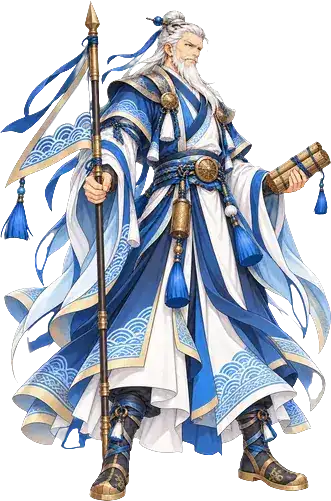
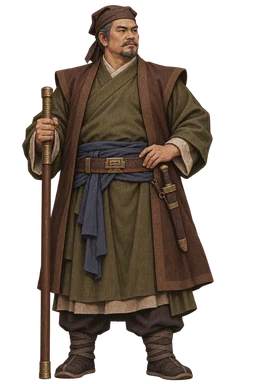
feat: dựng lại hình Trần Lãm theo bộ tranh mới
Bộ 6 tranh Shan gửi 03/11 (áo giao lĩnh nâu ôliu, áo khoác cộc nâu, đai chàm, gậy gỗ
hai đầu bịt đồng) thay bộ cờ lệnh cũ. Ảnh đứng tách lớp bằng code: bàn tay nắm cùng cây
gậy xoay quanh cổ tay (weapon staff), bàn tay đặt trên đai, đầu; chỗ gậy che tay áo và
vạt áo khoác được vá bằng khuếch tán màu. Thêm tranh đánh thường và phong thái (đọc cuộn
giấy); bỏ các lớp vải cũ ribbon, sash, sleeve.

Claude-Session: https://claude.ai/code/session_013ZWRLjVBHAqXYTQSkSZwJr

diff --git a/src/app/game/stage/rigs.ts b/src/app/game/stage/rigs.ts
@@ -709,43 +709,48 @@ const DINH_LIEN: WarriorRig = {
     anchor: { x: 560, y: 1262 }, scale: 0.95 },
 };
 
-/** Trần Lãm, quân sư hệ Thủy. Cờ lệnh đẩy nhẹ; tọa độ theo tranh 1024×1536. */
+/**
+ * Trần Lãm, quân sư hệ Thủy. Bộ tranh Shan gửi 03/11 (nền trong suốt sẵn) theo thiết kế mới RB-008: áo giao lĩnh nâu
+ * ôliu, áo khoác cộc nâu, đai chàm, gậy gỗ hai đầu bịt đồng, thay bộ cờ lệnh cũ. Ảnh đứng tách lớp bằng code: bàn tay
+ * nắm cùng cây gậy xoay quanh cổ tay (nhịp trượng, nghiêng nhẹ), bàn tay đặt trên đai, đầu; chỗ gậy che tay áo và vạt
+ * áo khoác được vá bằng khuếch tán màu xung quanh. Hệ tọa độ: ảnh đứng 1024×1536.
+ */
 const TRAN_LAM: WarriorRig = {
   skeleton: "warrior",
-  weapon: "spear",
+  weapon: "staff",
   dir: "tran-lam",
   texScale: 0.5,
-  foot: { x: 610, y: 1508 },
-  height: 1505,
+  foot: { x: 495, y: 1512 },
+  height: 1495,
   parts: {
-    body: { x: 27, y: 43, w: 980, h: 1472 },
-    armR: { x: 817, y: 435, w: 190, h: 222 },
-    sword: { x: 15, y: 12, w: 332, h: 1393 },
-    arm: { x: 256, y: 502, w: 115, h: 133 },
-    head: { x: 457, y: 43, w: 225, h: 305 },
+    body: { x: 88, y: 19, w: 768, h: 1503 },
+    armR: { x: 547, y: 568, w: 178, h: 110 },
+    sword: { x: 155, y: 345, w: 58, h: 1172 },
+    arm: { x: 134, y: 462, w: 104, h: 109 },
+    head: { x: 330, y: 19, w: 240, h: 259 },
   },
-  cloth: [
-    { name: "ribbon", box: { x: 321, y: 86, w: 187, h: 182 }, behind: true,
-      wind: { axis: "x", start: 0.2, amp: 4, freq: 1.6, k: 2.8, phase: 0.3, vertical: true, reverse: true } },
-    { name: "sash", box: { x: 505, y: 575, w: 88, h: 368 },
-      wind: { axis: "y", start: 0.2, amp: 2, freq: 1.3, k: 2.6, phase: 1.4 } },
-  ],
-  covers: [{ name: "sleeve", box: { x: 296, y: 344, w: 148, h: 197 } }],
+  cloth: [],
+  covers: [],
   joints: {
-    shoulder: { x: 365, y: 505 },
-    elbowR: { x: 825, y: 545 },
-    neck: { x: 554, y: 270 },
+    shoulder: { x: 160, y: 555 },
+    elbowR: { x: 705, y: 605 },
+    neck: { x: 470, y: 255 },
   },
-  blade: [{ x: 300, y: 550 }, { x: 287, y: 18 }],
+  blade: [{ x: 182, y: 1490 }, { x: 188, y: 360 }],
   fxColor: 0x7fcaff,
+  // Hạ gậy quét ngang, tay kia nắm trước ngực (đánh thường); giơ gậy chéo sau đầu, xòe bàn tay về trước (ra chiêu);
+  // thế tấn rộng, gậy ngang ngực, tay kia mở chặn (tuyệt chiêu). Cỡ so theo bề ngang khăn đầu.
   poses: {
-    cast: { name: "pose-cast", texScale: 1 / 3, origin: { x: 13, y: 3 },
-      anchor: { x: 650, y: 1510 }, scale: 1, burst: { x: 100, y: 50 } },
-    ultimate: { name: "pose-ultimate", texScale: 1 / 3, origin: { x: 7, y: 18 },
-      anchor: { x: 645, y: 1510 }, scale: 1, burst: { x: 960, y: 220 } },
+    attack: { name: "pose-attack", texScale: 0.3, origin: { x: 172, y: 11 },
+      anchor: { x: 570, y: 1003 }, scale: 1.2, burst: { x: 1245, y: 700 } },
+    cast: { name: "pose-cast", texScale: 0.3, origin: { x: 38, y: 18 },
+      anchor: { x: 510, y: 1500 }, scale: 1.03, burst: { x: 955, y: 455 } },
+    ultimate: { name: "pose-ultimate", texScale: 0.3, origin: { x: 135, y: 44 },
+      anchor: { x: 765, y: 965 }, scale: 1.2, burst: { x: 1395, y: 312 } },
   },
-  down: { name: "pose-down", texScale: 1 / 3, origin: { x: 36, y: 99 },
-    anchor: { x: 955, y: 910 }, scale: 1 },
+  // Ngồi bệt ngả sang bên, một tay chống đất, gậy rơi bên cạnh.
+  down: { name: "pose-down", texScale: 0.3, origin: { x: 36, y: 36 },
+    anchor: { x: 750, y: 960 }, scale: 1.1 },
 };
 
 /** Phạm Bạch Hổ, tướng sĩ hệ Hỏa. Tách lớp từ tranh 1024×1536, áo choàng lông hổ bay sau tay đao. */

diff --git a/tests/game/rigs.test.ts b/tests/game/rigs.test.ts
@@ -1822,3 +1822,30 @@ test("Đinh Liễn bộ mới cầm thủ bản: đủ bốn tranh tư thế, kh
     assert.equal(data.readUIntLE(27, 3) + 1, Math.floor(box.h * rig.texScale), name);
   }
 });
+
+test("Trần Lãm bộ mới cầm gậy: đủ bốn tranh tư thế, khớp nằm trong lớp và texture khớp tọa độ", () => {
+  const rig = rigOf("tranLam");
+  assert.ok(rig?.skeleton === "warrior");
+  assert.equal(rig.weapon, "staff");
+  assert.deepEqual(rig.cloth, []);
+  assert.deepEqual(rig.covers, []);
+  assert.equal(rig.poses?.attack?.name, "pose-attack");
+  assert.equal(rig.poses?.cast?.name, "pose-cast");
+  assert.equal(rig.poses?.ultimate?.name, "pose-ultimate");
+  assert.equal(rig.down?.name, "pose-down");
+  const contains = (p: { x: number; y: number }, box: { x: number; y: number; w: number; h: number }) =>
+    assert.ok(p.x > box.x && p.x < box.x + box.w && p.y > box.y && p.y < box.y + box.h, `${JSON.stringify(p)} ngoài lớp`);
+  contains(rig.joints.shoulder, rig.parts.arm);
+  contains(rig.joints.elbowR, rig.parts.armR);
+  contains(rig.joints.neck, rig.parts.head);
+  contains(rig.joints.neck, rig.parts.body);
+  let bytes = 0;
+  for (const name of partsOf(rig)) bytes += statSync(`public${partUrl(rig, name)}`).size;
+  assert.ok(bytes <= 350_000, `${bytes} bytes vượt ngân sách`);
+  for (const [name, box] of Object.entries(rig.parts)) {
+    const data: Buffer = readFileSync(`public${partUrl(rig, name)}`);
+    assert.equal(data.toString("ascii", 12, 16), "VP8X");
+    assert.equal(data.readUIntLE(24, 3) + 1, Math.floor(box.w * rig.texScale), name);
+    assert.equal(data.readUIntLE(27, 3) + 1, Math.floor(box.h * rig.texScale), name);
+  }
+});

diff --git a/docs/06-art/prompts/v4-2/01-chinh-lich-su-su-quan.md b/docs/06-art/prompts/v4-2/01-chinh-lich-su-su-quan.md
@@ -577,7 +577,7 @@ CONSISTENCY: Create a new design from the description; no previous Reed Banner a
 
 ### RB-008 — Trần Lãm · Quân sư / Thủy
 
-> Trạng thái riêng: **DRAFT** — pilot thiết kế mới từ đầu theo yêu cầu Shan 31/10/2026; không khóa theo tranh cũ. Chưa duyệt Master hoặc tạo ảnh.
+> Trạng thái riêng: **DRAFT** — pilot thiết kế mới từ đầu theo yêu cầu Shan 31/10/2026; không khóa theo tranh cũ. Shan gửi 6 tranh ngày 03/11/2026, đã đưa vào game (`public/art/characters/tran-lam/`). Bộ tranh không theo đúng thứ tự khung và vẽ gậy gỗ hai đầu bịt đồng thay gậy gút dây, nên ghép theo dáng: tranh đứng → ảnh đứng tách lớp, hạ gậy quét ngang → `pose-attack`, giơ gậy xòe tay → `pose-cast`, thế tấn gậy ngang ngực → `pose-ultimate`, ngồi bệt gậy rơi → `pose-down`, đọc cuộn giấy → `style`.
 
 #### Identity DNA mới và ranh giới sử liệu
 
